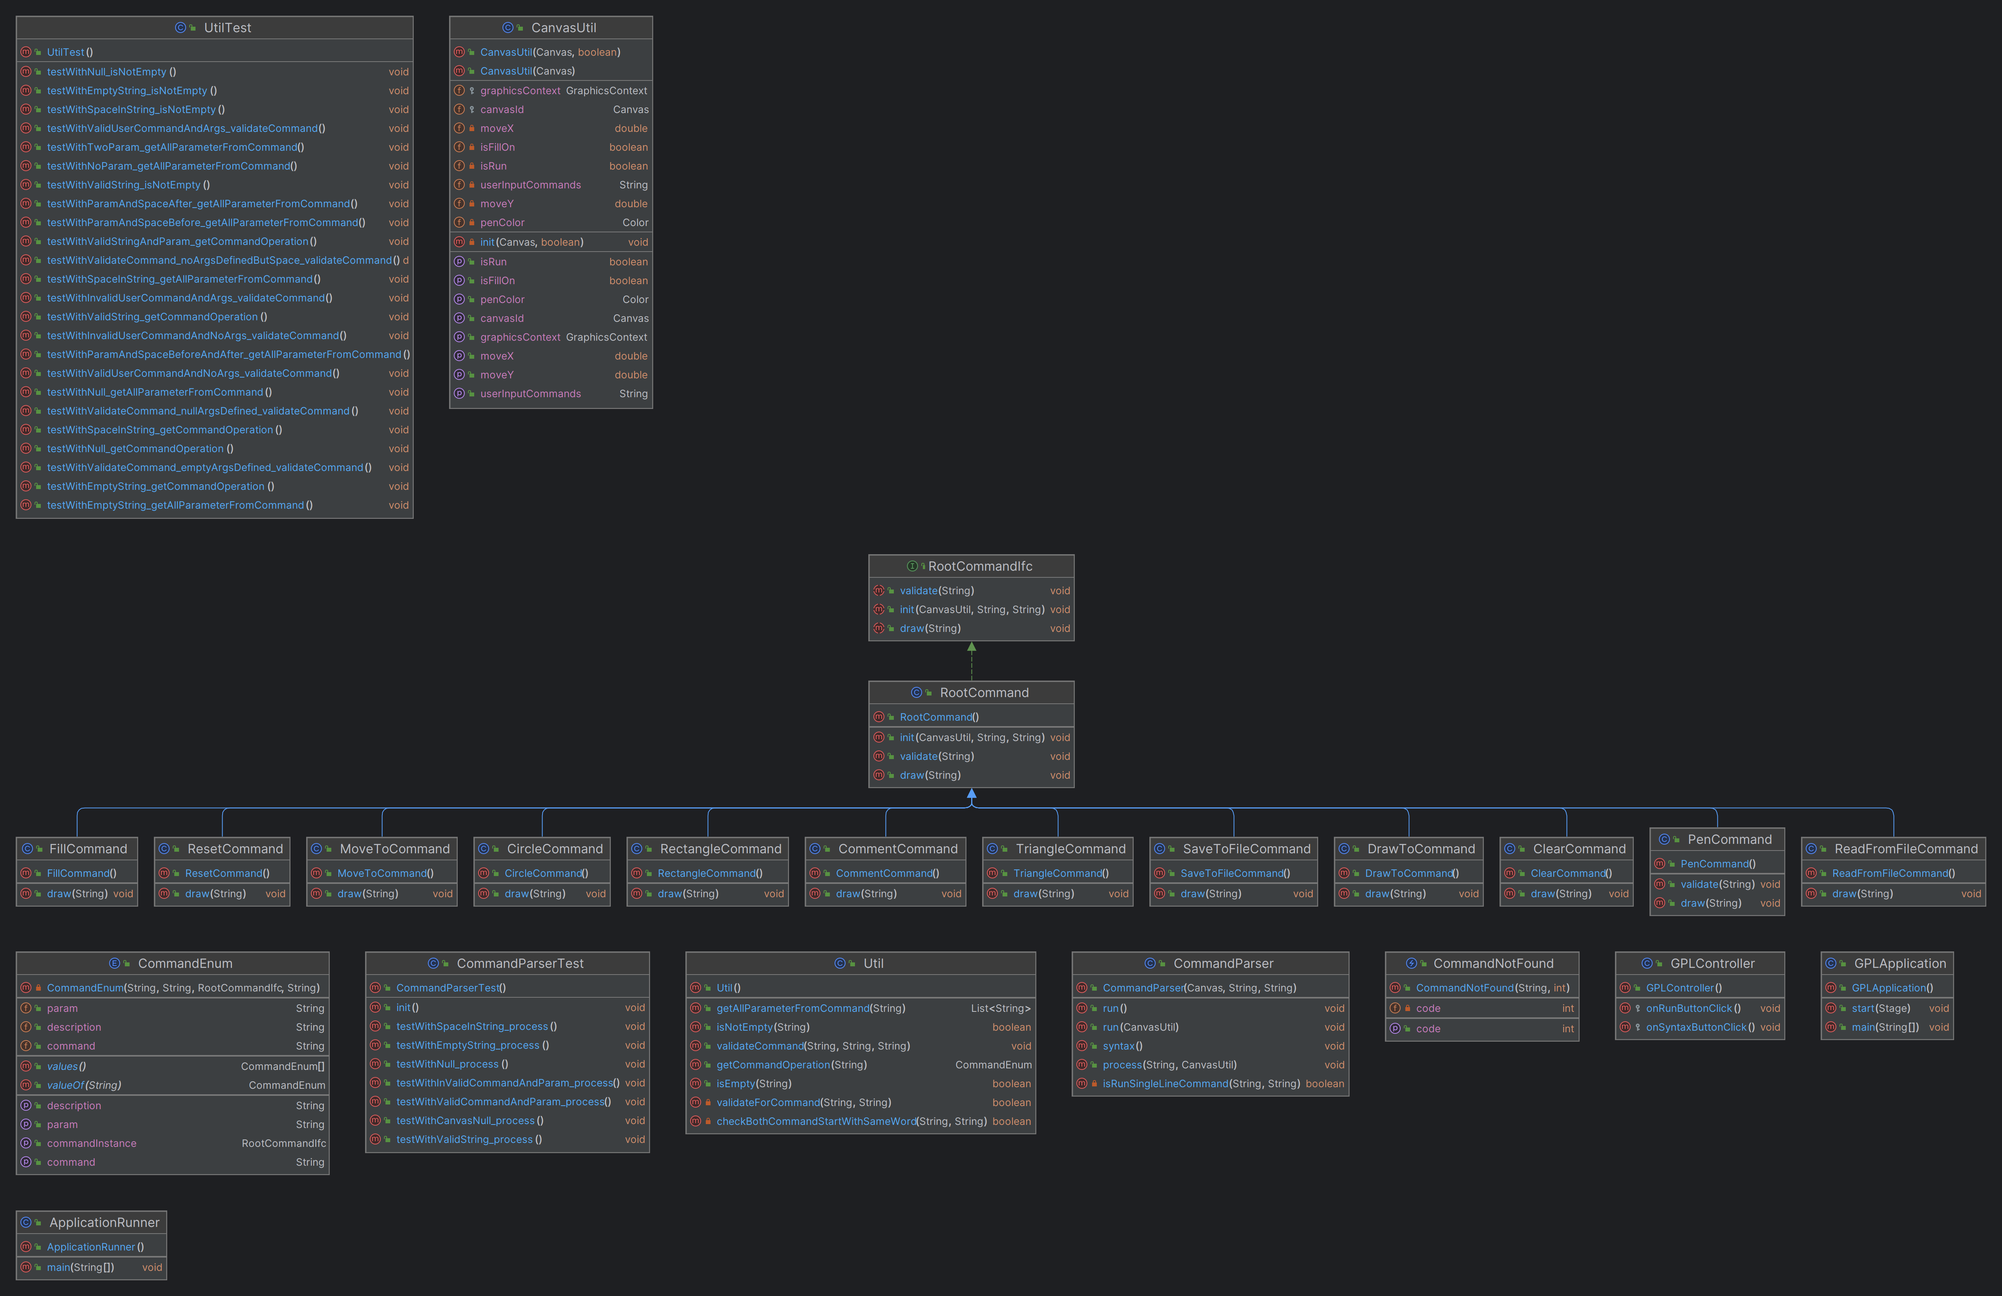
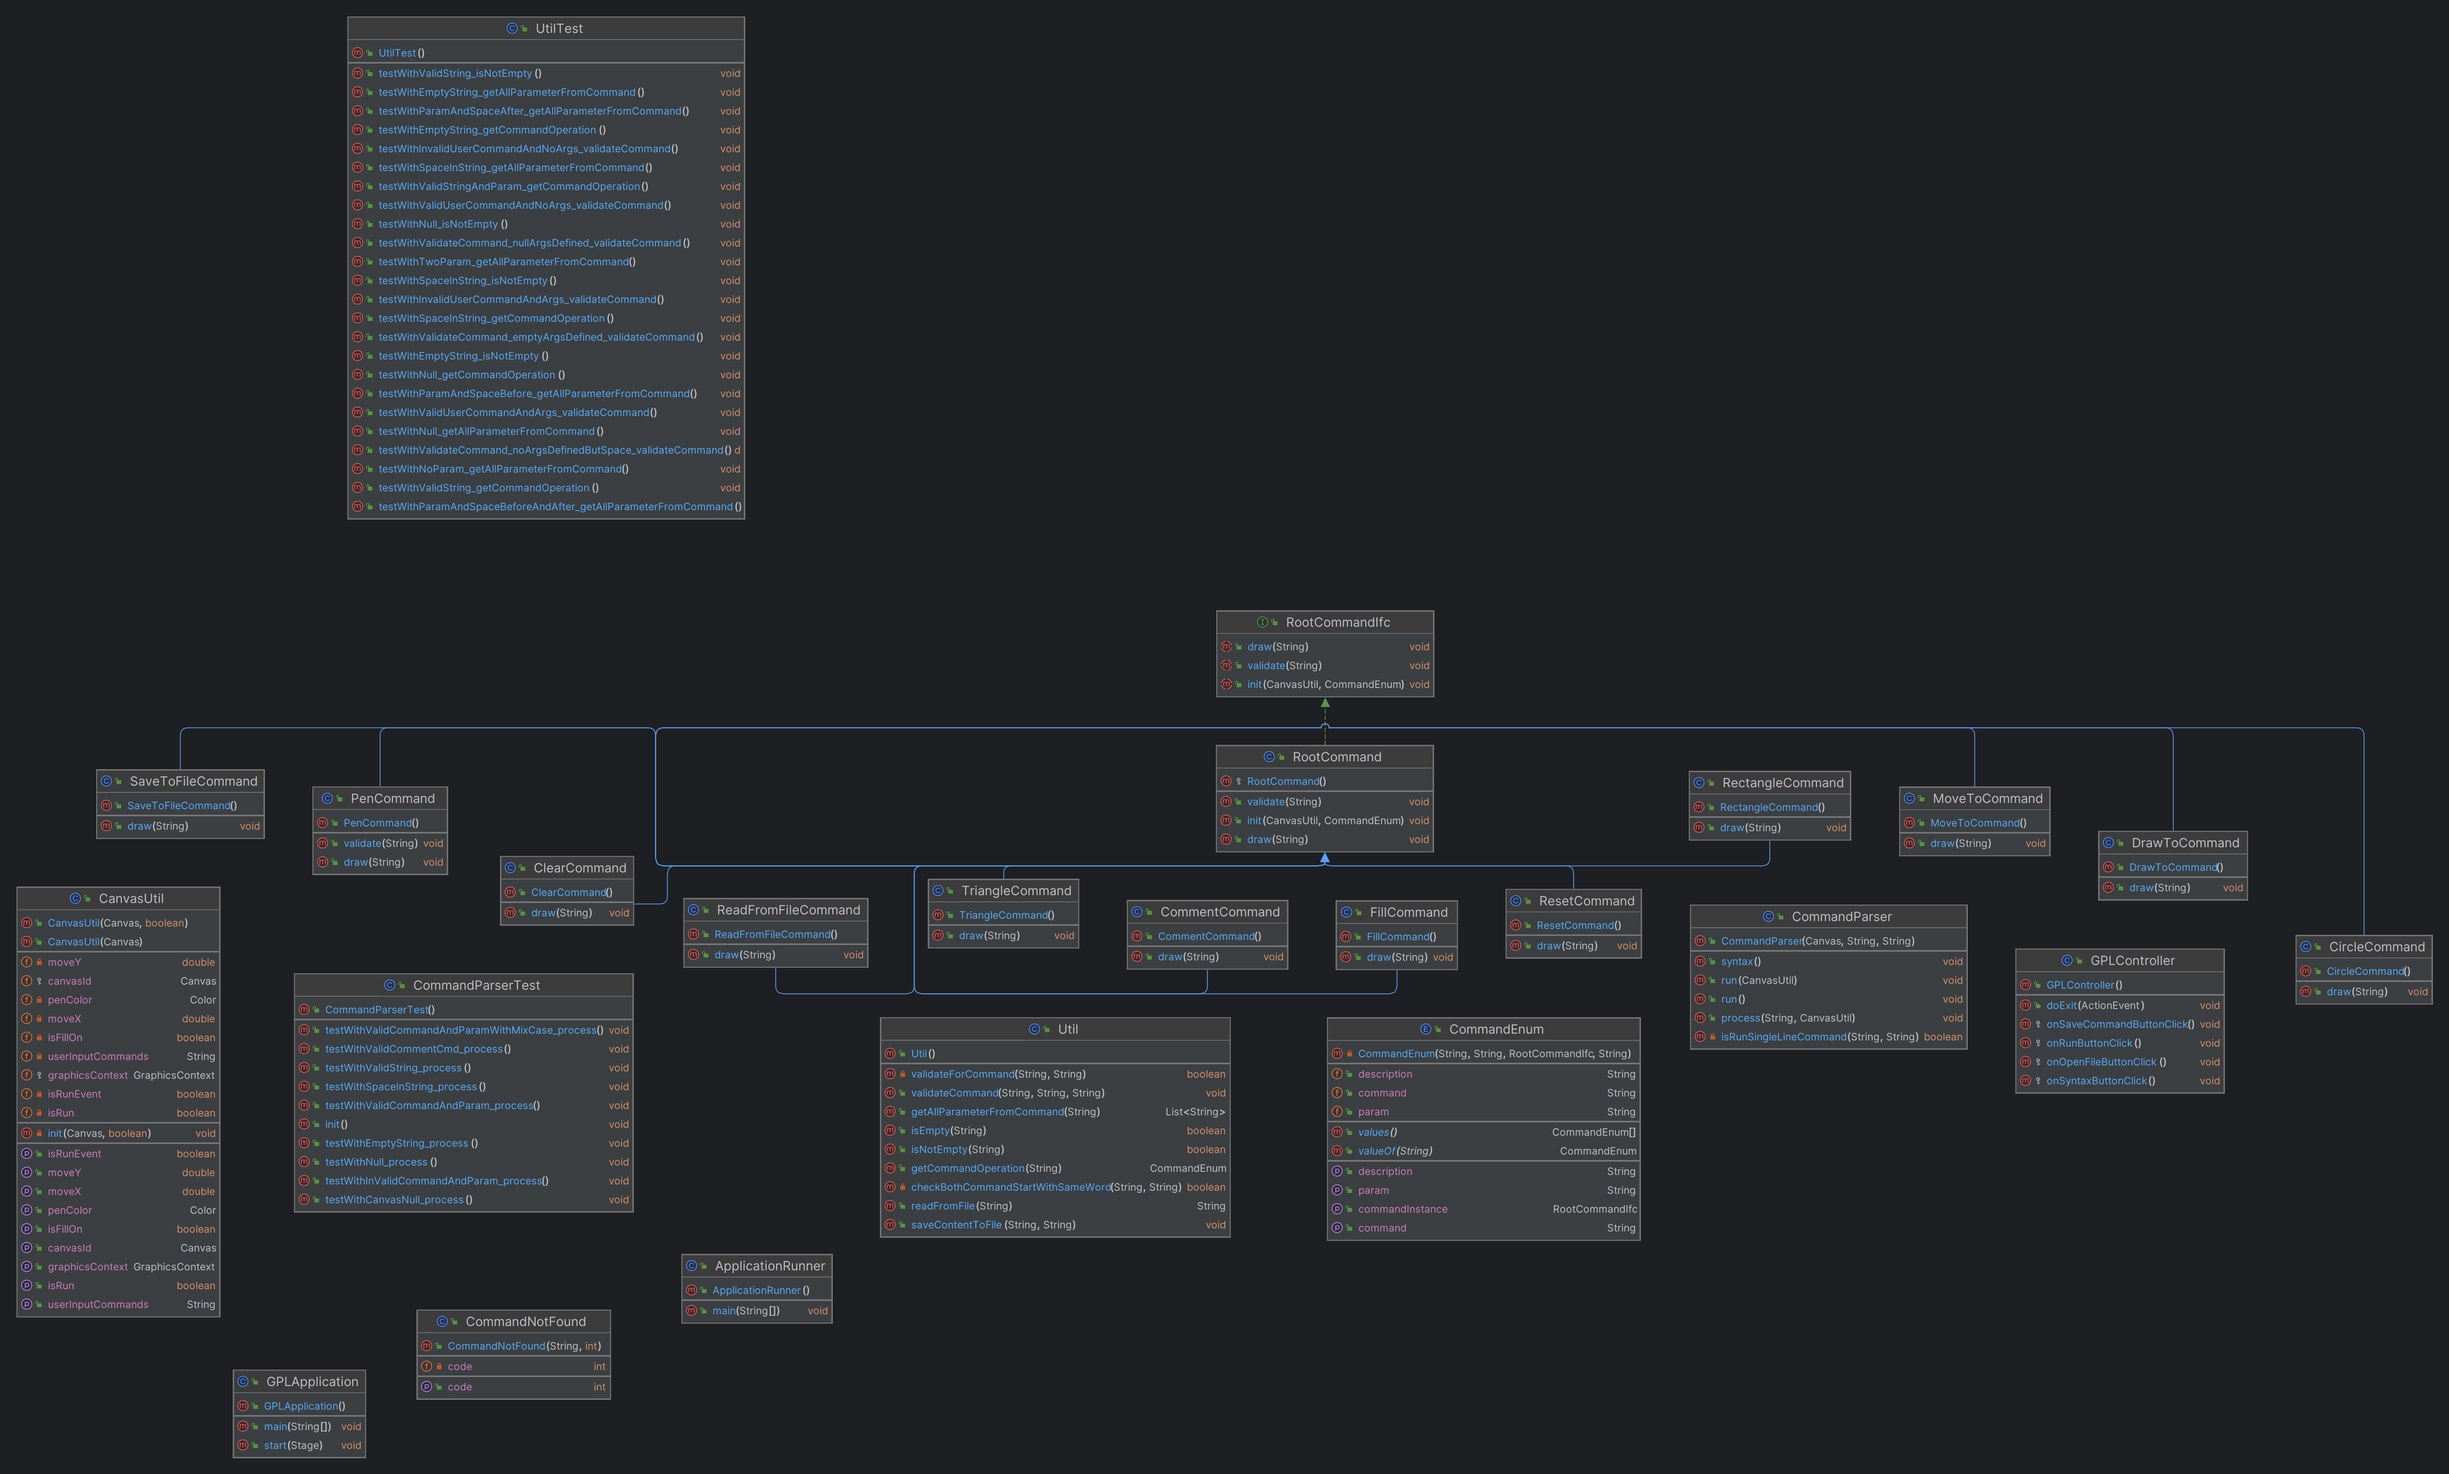
readme file update as per new changes i.e. save/open file

Changed region(s): [[0.0, 0.4055, 0.9976, 0.9982], [0.0, 0.0, 0.3429, 0.4055]]

diff --git a/README.md b/README.md
@@ -12,22 +12,24 @@ This application is based on producing a simple programming language and environ
 # GPL Desktop View
 <img src="./src/main/resources/desktop-application-view.png" width="600"/>
 
-1. Multiple Line Program textarea:
-   This section allows develope to write multiline code at once's to perform display operation.
-2. Output Display:
+1. Menu Section:
+   This section allows developer to open existing code from file and to save written command to file from section 2 and section 4.
+2. Multiple Line Program textarea:
+   This section allows developer to write multiline code at once's to perform display operation.
+3. Output Display:
    This section display all the output as per the given command or instruction on section 1 or 3.
-3. Single Line Command text field:
+4. Single Line Command text field:
    This section allows developer to write single line code to perform display operation.
-4. Run button:
+5. Run button:
    This button run the command or program given on section 1 and 3 and display output on output box. This also validate syntax of the programming.
    And this application always give priority to section 3 (single line code first) and if there is no single line code then it will go for section 1 (multiline code program).
-5. Syntax button:
+6. Syntax button:
    This button checks all syntax error and compile program.
 
-Every event occured within this application has alert message on top right section of the screen for better understanding of event.
+Every event occurred within this application has alert message on top right section of the screen for better understanding of event.
 <img src="./src/main/resources/alert.png" width="400"/>
 
-# Language Used To Develope
+# Language Used To Develop
 With the wide range of language available, I have selected java to develops this application because of my past and future career as  a software engineer in java.
 
 # Technologies Used
